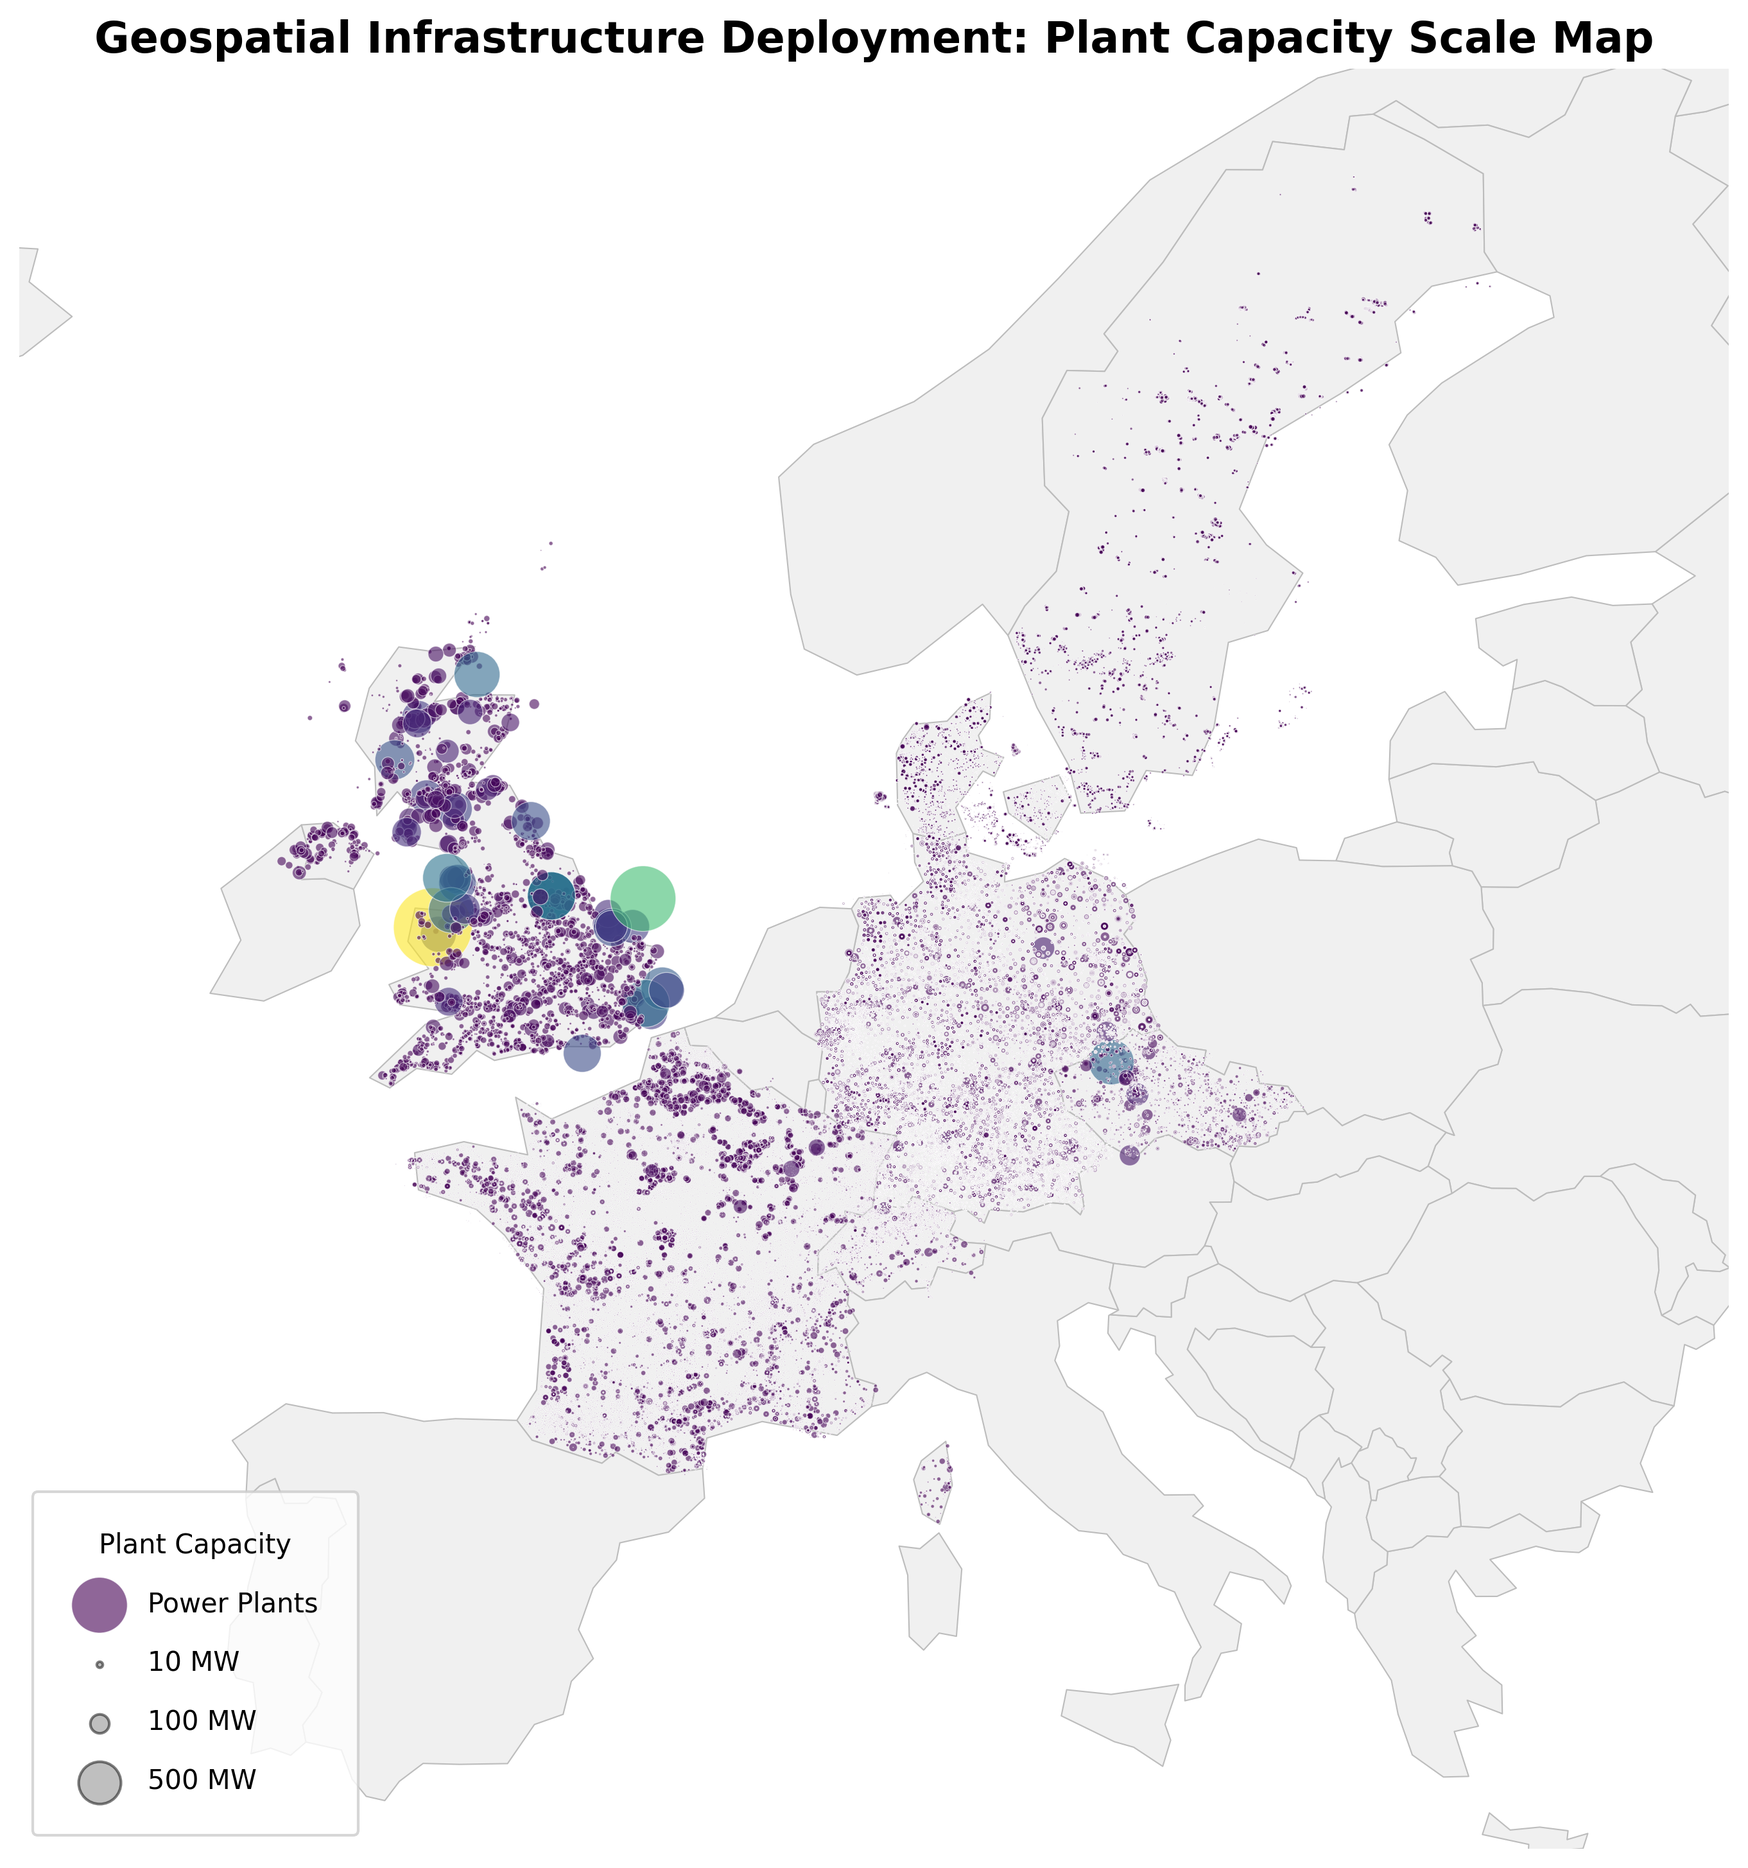
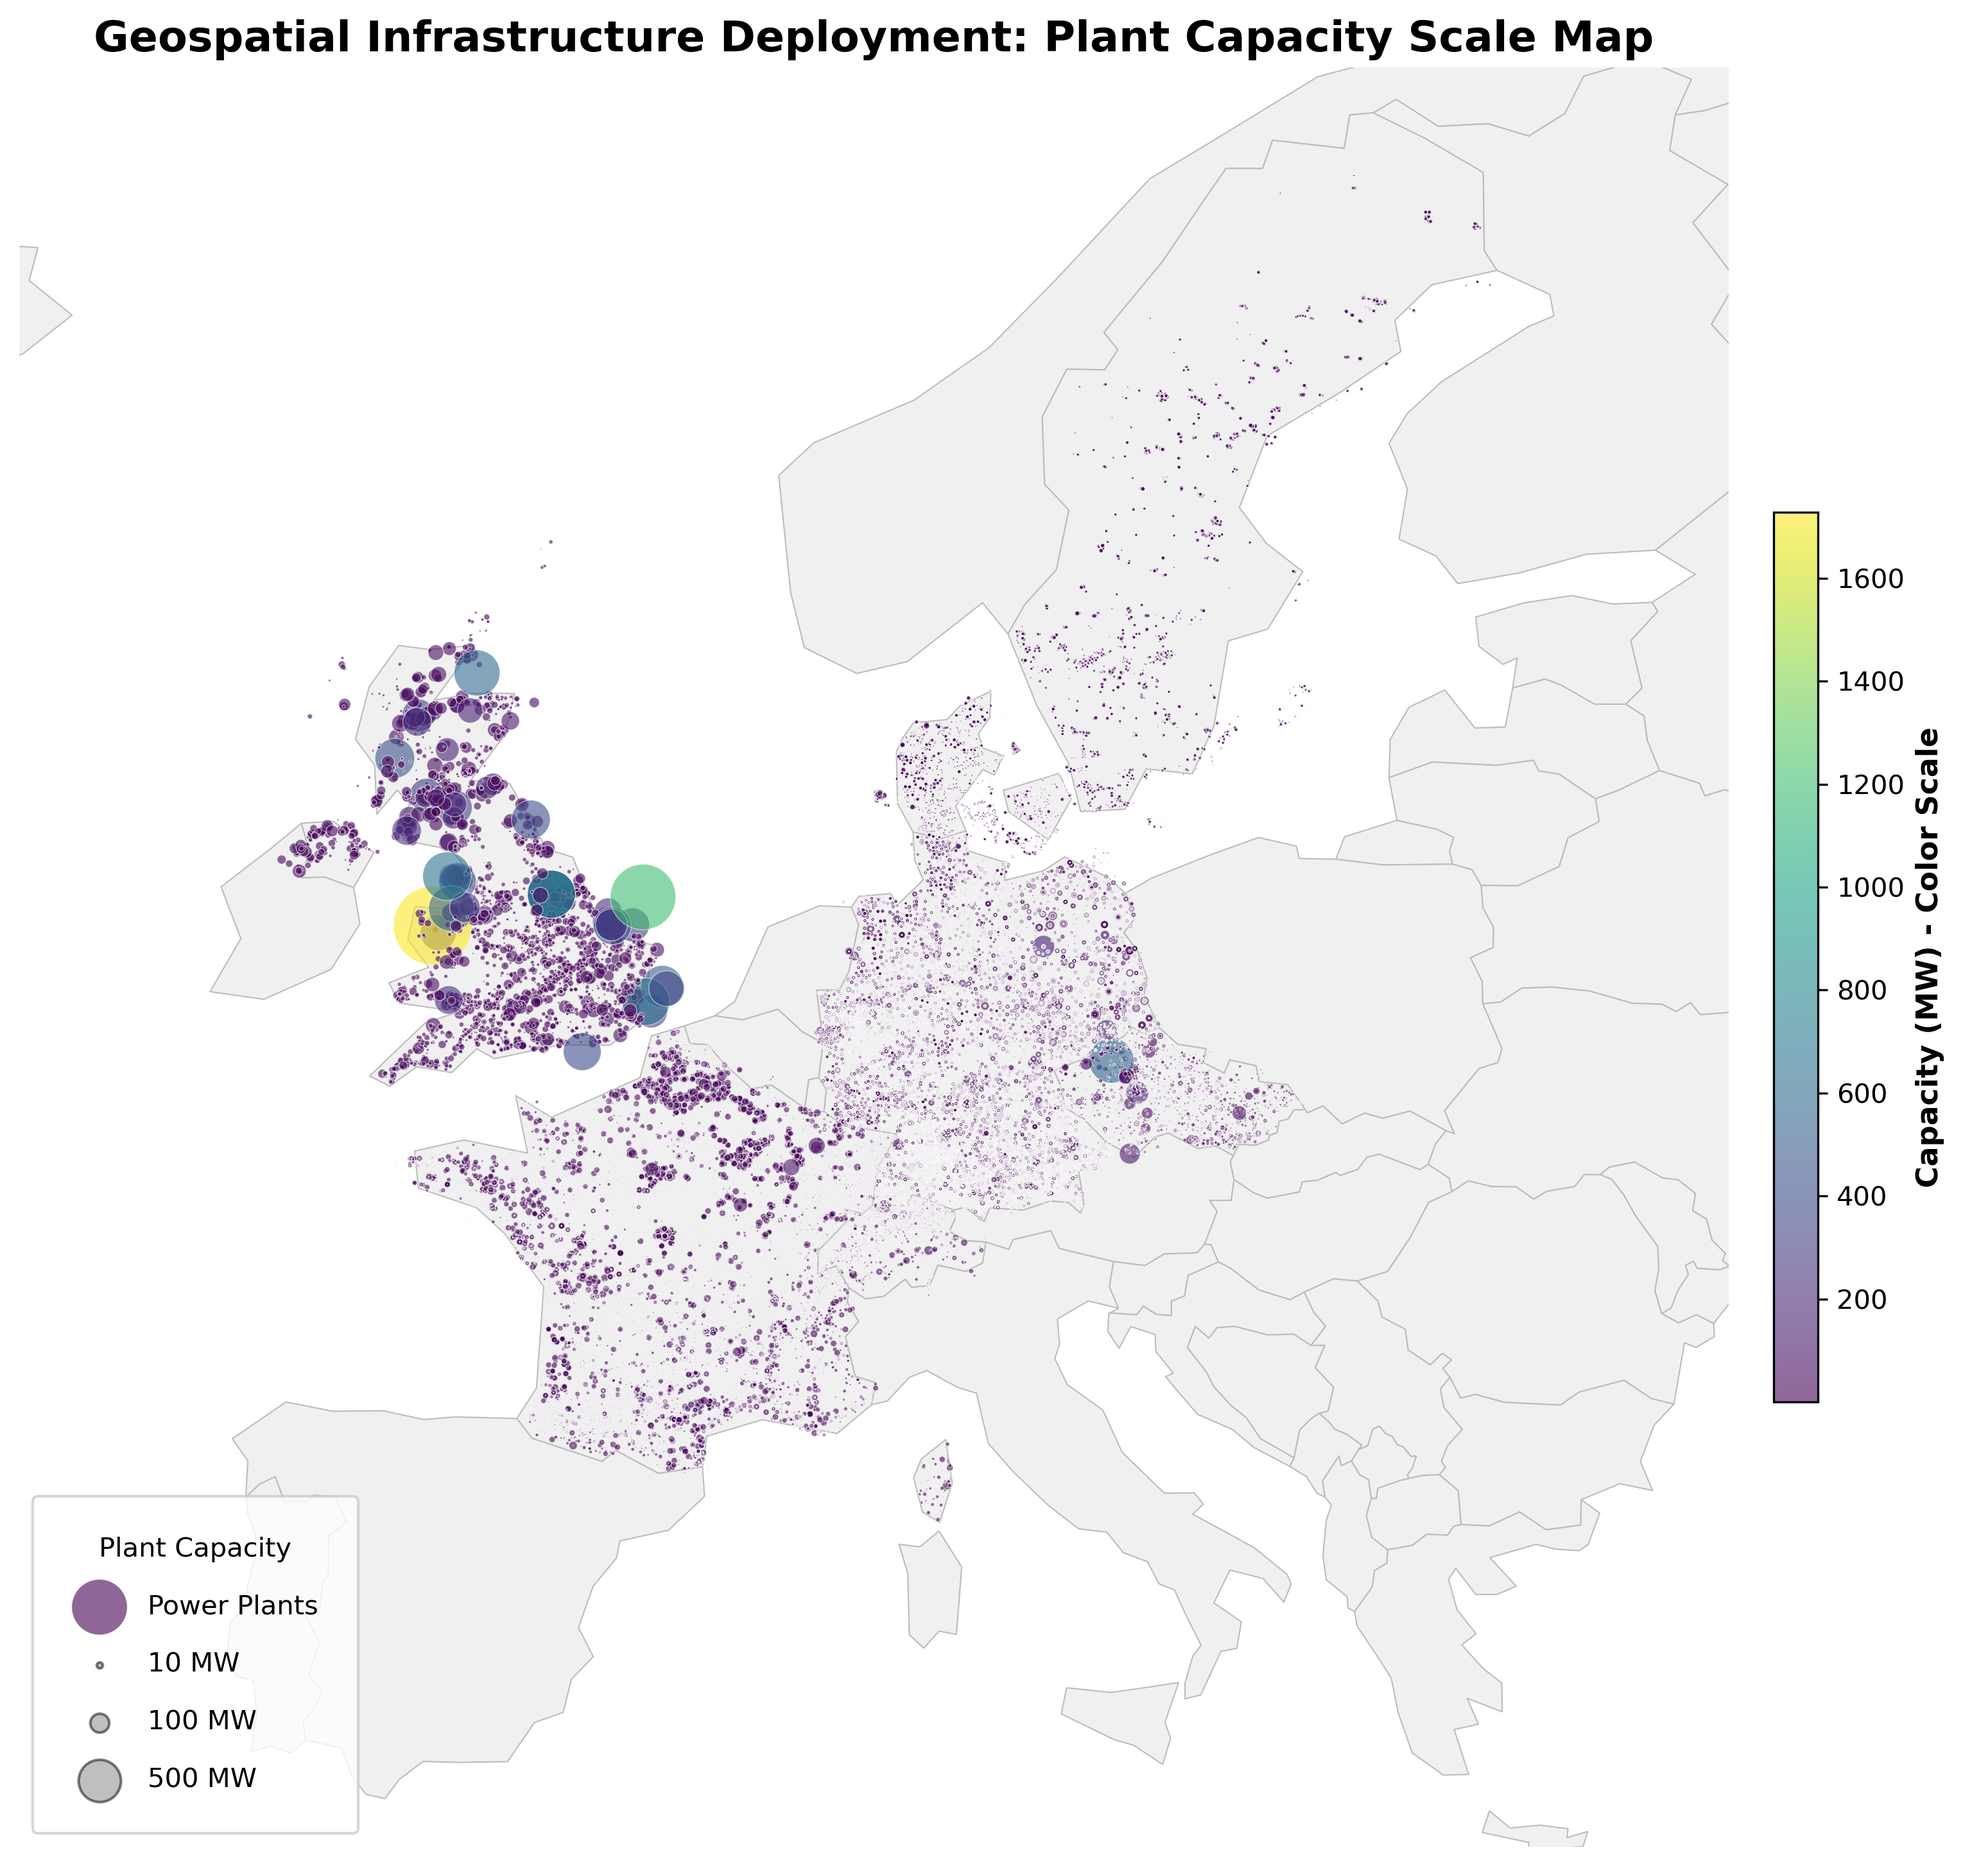
Colorbar added to buble map

diff --git a/geospatial_analysis/bubble_map_generator.py b/geospatial_analysis/bubble_map_generator.py
@@ -65,8 +65,10 @@ scatter = ax.scatter(
     linewidth=0.3,
     label='Power Plants'
 )
+cbar = plt.colorbar(scatter, ax=ax, shrink=0.5, pad=0.02)
+cbar.set_label('Capacity (MW) - Color Scale', fontsize=11, fontweight='bold')
 
-# Legend for bubble sizes (manual representation of capacity levels)
+# Legend for bubble sizes
 for cap in [10, 100, 500]:
     ax.scatter([], [], s=cap * 0.5, c='gray', alpha=0.5, label=f'{cap} MW', edgecolors='k')
 
@@ -80,5 +82,5 @@ ax.set_axis_off()
 
 output_filename = 'bubble_map_capacity.png'
 plt.savefig(output_filename, dpi=300, bbox_inches='tight')
-print(f"\nSUCCESS! Bubble map saved as: {output_filename}")
+print(f"\nSuccess Bubble map saved as: {output_filename}")
 
